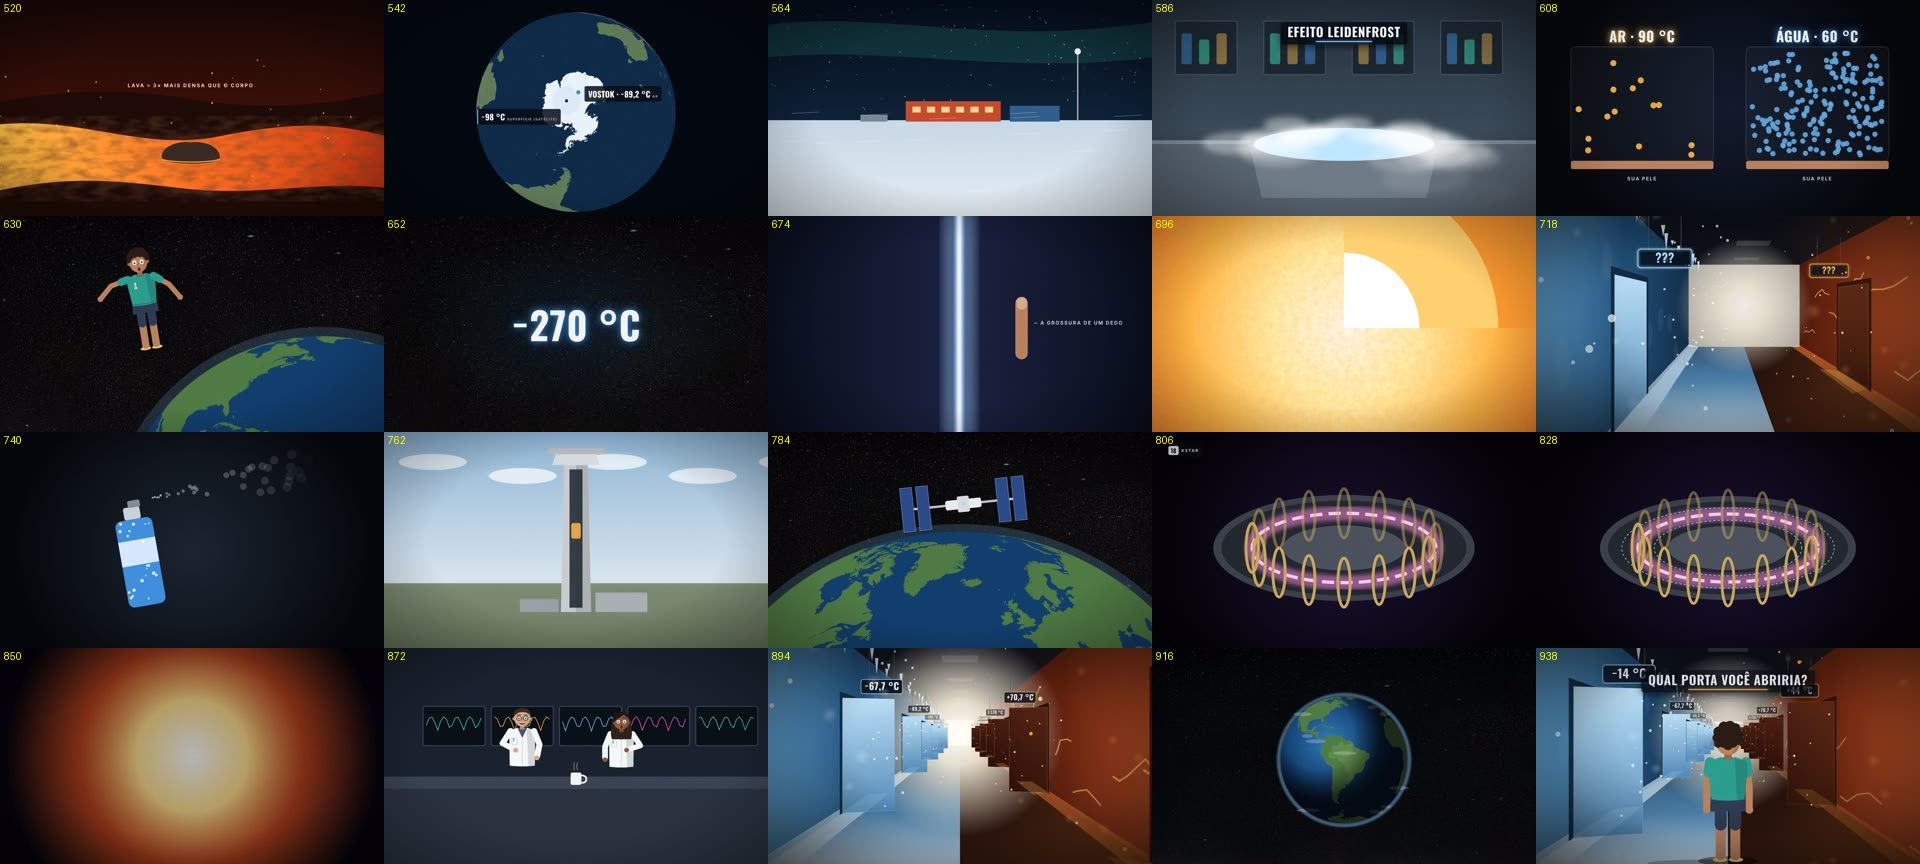
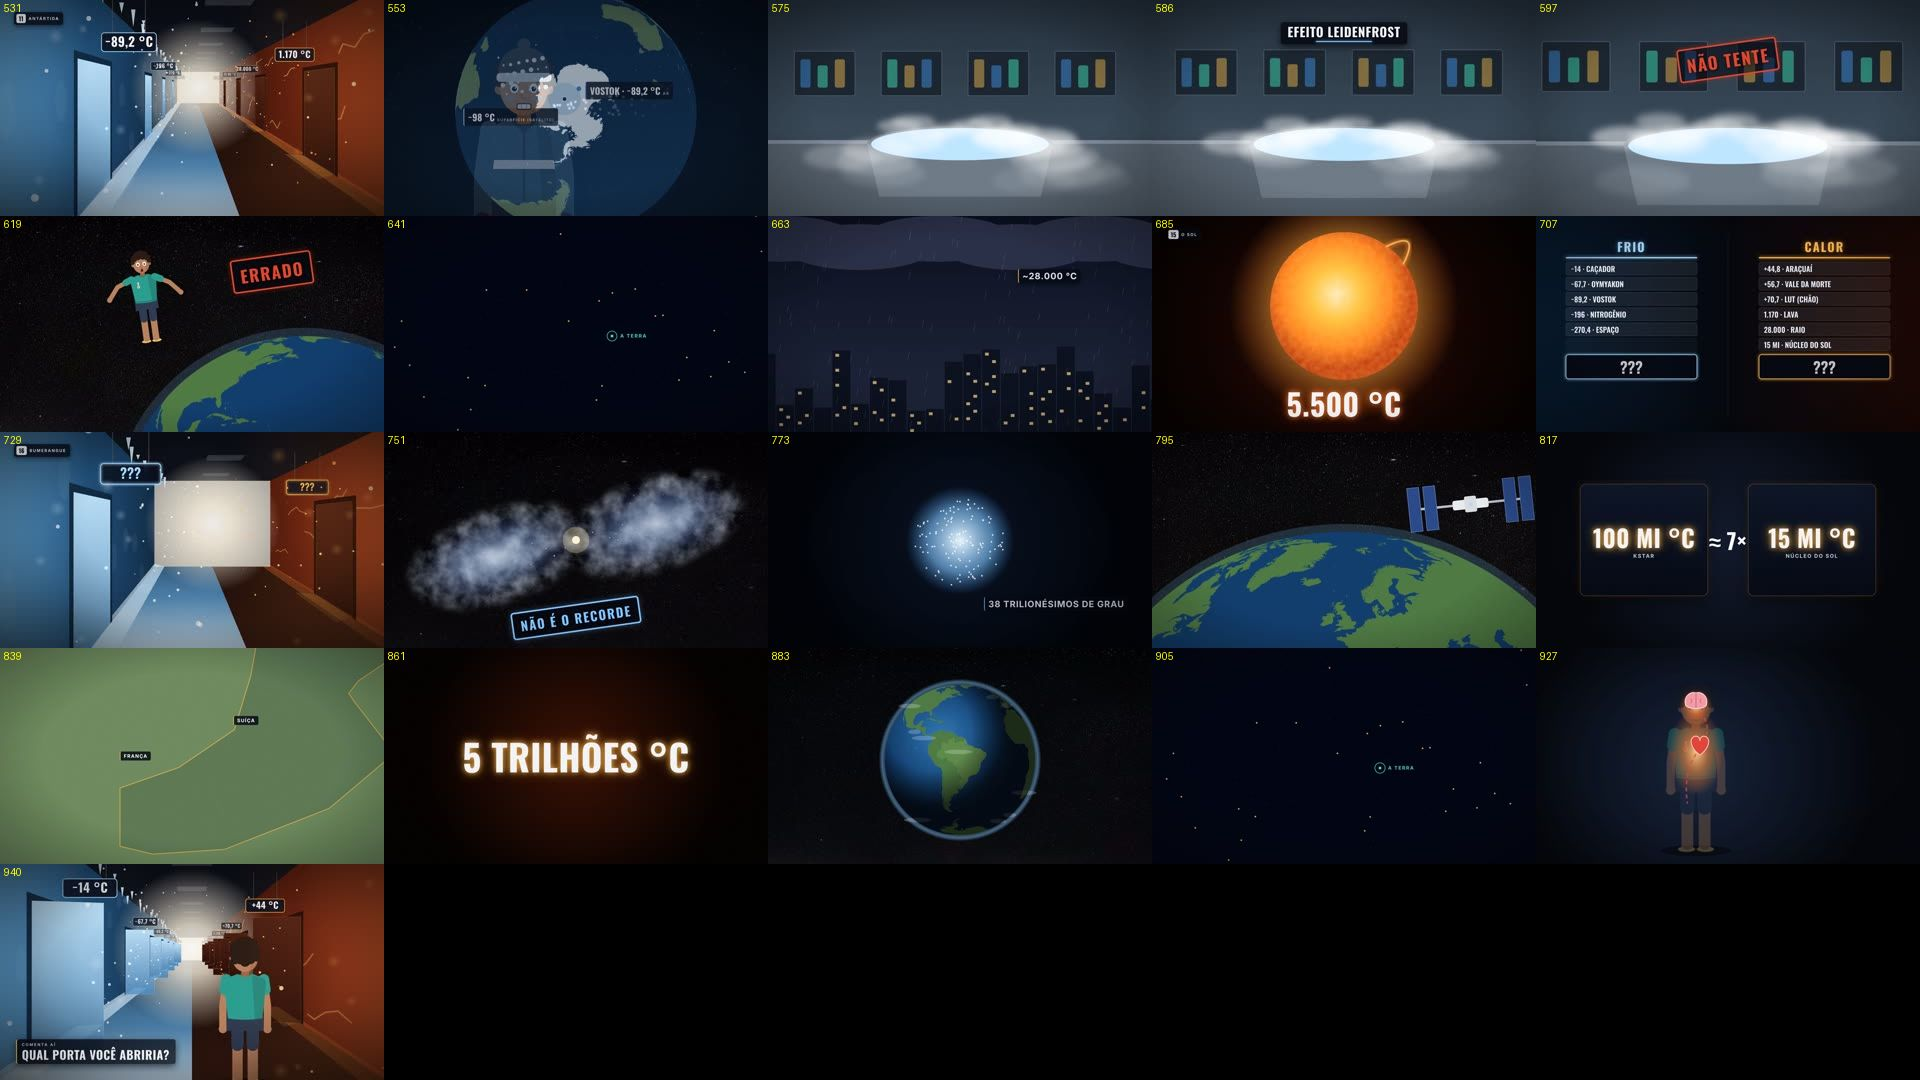
Vídeo 5: render final (fusões só entre planos sem texto, carimbos em área livre)
Claude-Session: https://claude.ai/code/session_01Vv6FrpUQ56qcYUpzbLhmfZ

diff --git a/videos/05_temperatura/render/src/Video.tsx b/videos/05_temperatura/render/src/Video.tsx
@@ -88,7 +88,7 @@ const Chip: React.FC<{lt: number; d: number; n: number; nome: string}> = ({lt, d
   );
 };
 
-const POS_CARIMBO: Record<string, [number, number]> = {corpo: [1360, 140], pessoaAnna: [1360, 140], leito: [1380, 250], comparacao: [960, 930], lava: [960, 170], nitro: [960, 300], espacoP: [1360, 280], sol: [1560, 240], nebulosa: [960, 930], blagden: [960, 120], cidades: [960, 600], placar: [960, 960]};
+const POS_CARIMBO: Record<string, [number, number]> = {corpo: [1360, 140], pessoaAnna: [1360, 140], leito: [1380, 250], comparacao: [960, 930], lava: [960, 170], nitro: [1650, 620], espacoP: [1360, 280], sol: [1560, 240], nebulosa: [960, 930], blagden: [960, 120], cidades: [960, 600], placar: [960, 960]};
 const overlay = (o: any, lt: number, d: number, i: number, c: string) => {
   const cor = COR[o.cor] ?? COR.ouro;
   const lt2 = o.ja ? lt + 5 : lt;

diff --git a/videos/05_temperatura/gerar_cortes.py b/videos/05_temperatura/gerar_cortes.py
@@ -214,7 +214,7 @@ for i, (a, b, c, p, o, d) in enumerate(B):
                 ov2 = dict(ov); ov2['t0'] = 0; ov2['ja'] = 1; oo.append(ov2); continue
             if t0 > L: continue
             ov2 = dict(ov); ov2['t0'] = max(0, t0); oo.append(ov2)
-        fade = 0.35 if out and out[-1]['c'] == c and c in SEM_TEXTO and not oo and not out[-1]['o'] else 0
+        fade = 0.35 if out and out[-1]['c'] == c and out[-1]['p'].get('modo') == p.get('modo') and c in SEM_TEXTO and not oo and not out[-1]['o'] else 0
         out.append({'a': round(aa, 3), 'b': round(bb, 3), 'c': c, 'p': pp, 'o': oo, 'd': d + (f' ({j + 1}/{n})' if n > 1 else ''), 'f': fade})
 json.dump(out, open('render/src/cortes.json', 'w'), ensure_ascii=False, indent=0)
 print(len(out), 'planos; maior:', max(x['b'] - x['a'] for x in out), 's; fim', out[-1]['b'])
